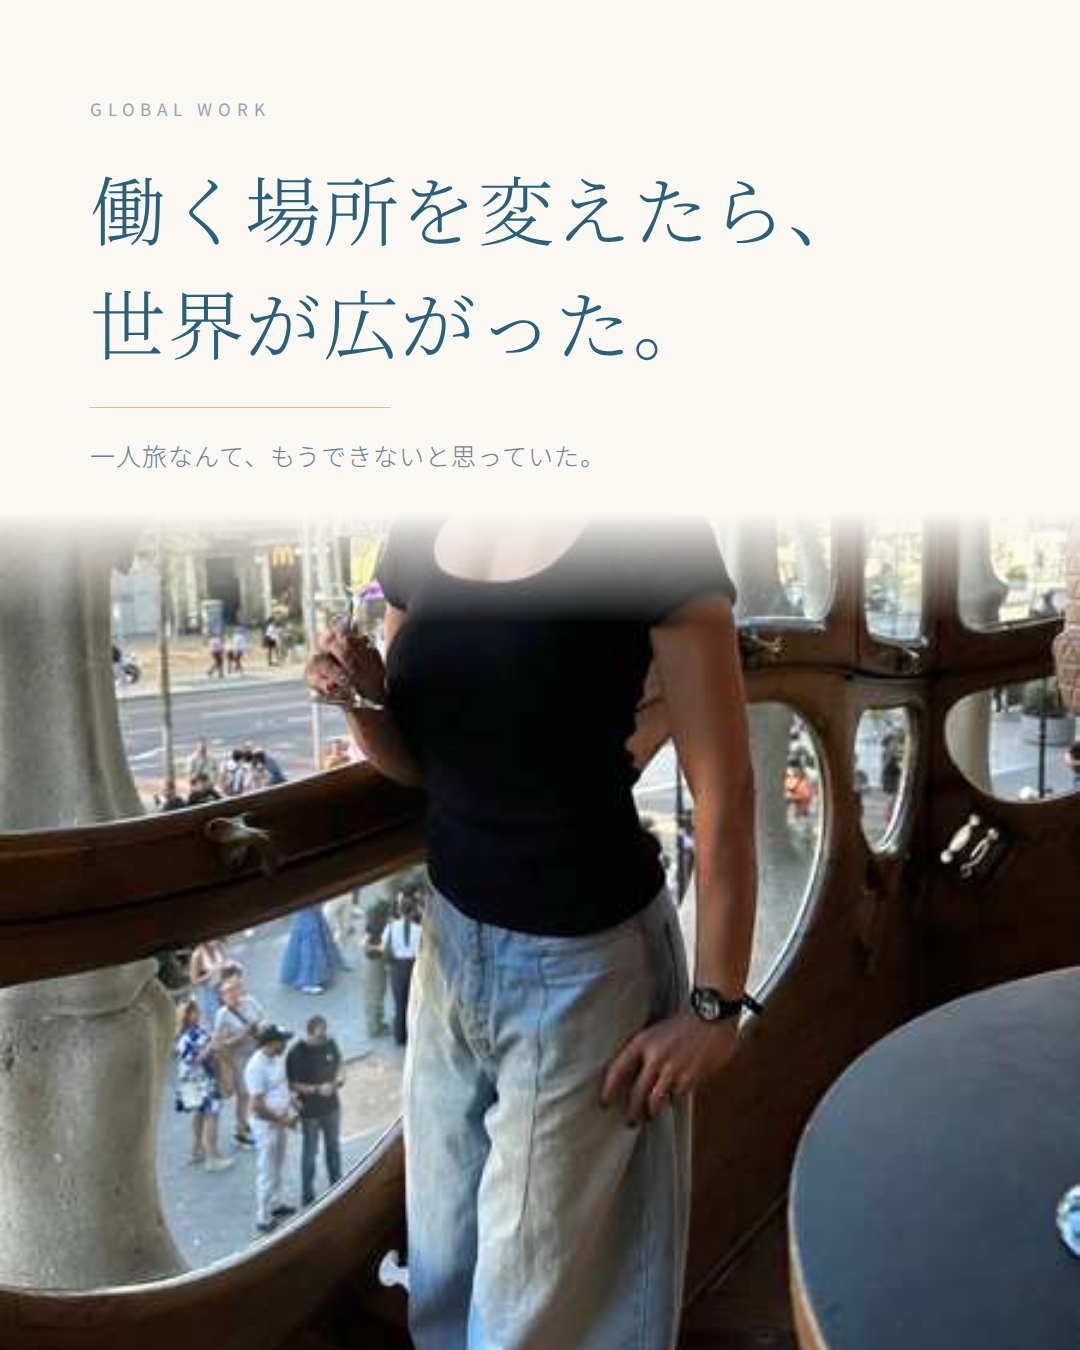
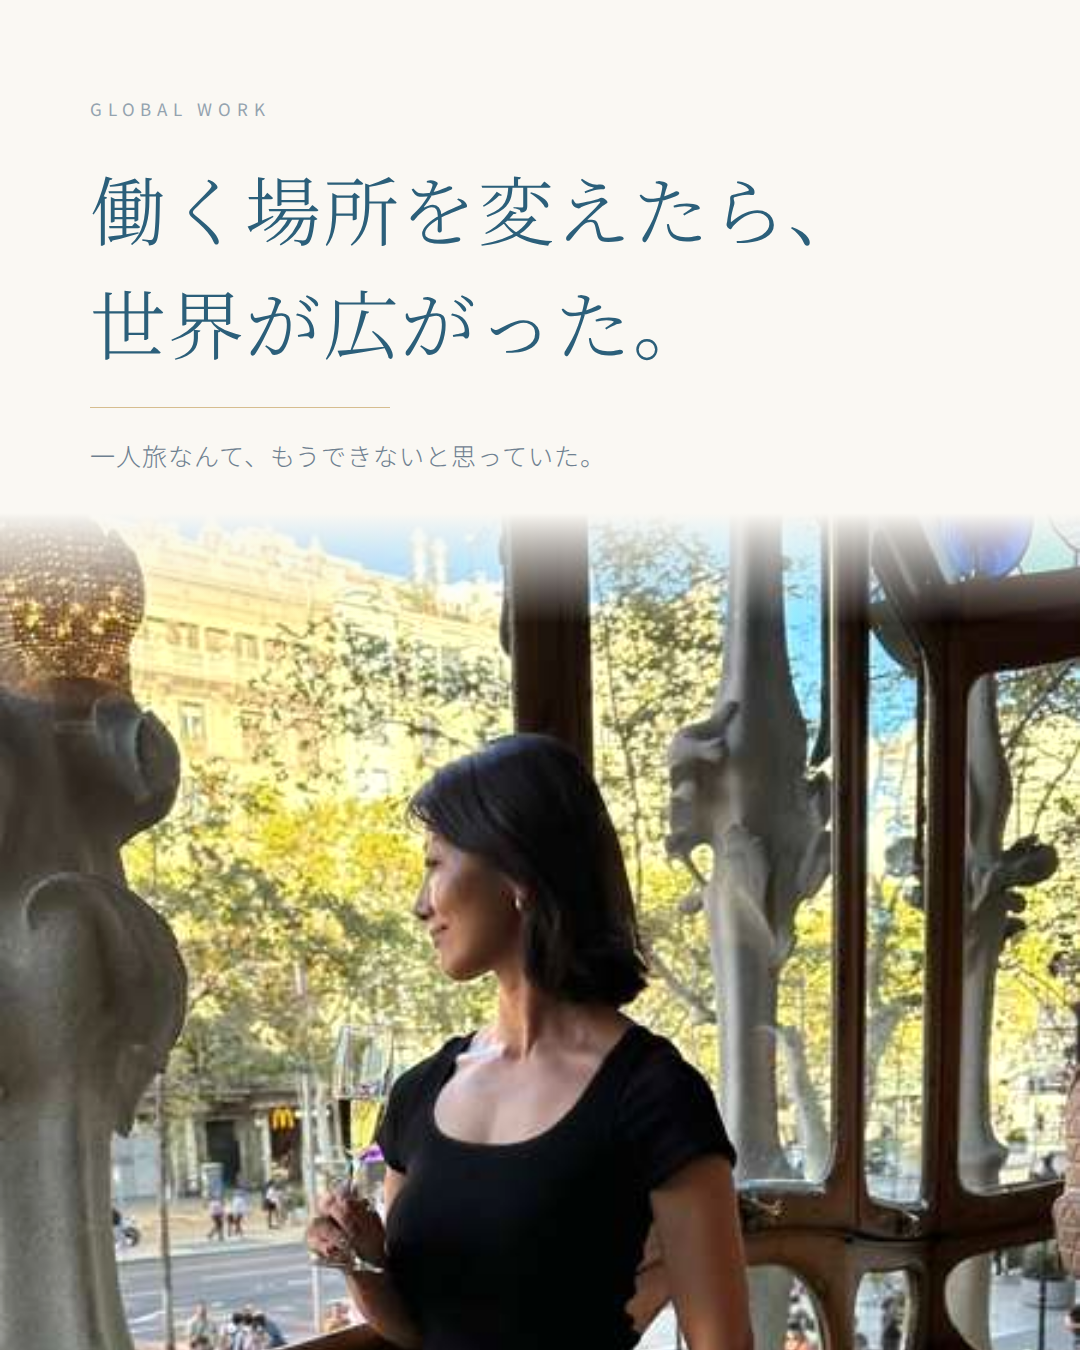
03を上帯に確定し、9枚の全体像を書き出した
- 03を place: 'top' に確定。02の縦割りと隣り合わないようにするため
- 縦割りの面幅を540px→466pxへ。投稿済みの02が画面の約43%だった。
  半分だと写真が細く見え、面が余る
- 02を縦割りに変更。写真は japan.jpg のダミー（インドの画像ファイルが無いため）。
  グリッドで型のリズムを確認するためだけの仮置き
- 01を箱に変更（投稿済みの形）
- 03のfocusを20%へ。上帯は上38%を覆うので、既定のままだと人物の頭が切れる。
  上帯のfocusは「被写体が下寄りか」ではなく「帯の下に顔が収まるか」で決める

diff --git a/src/instagram9/posts.js b/src/instagram9/posts.js
@@ -158,11 +158,21 @@ ${PROFILE_FOOTER}`,
   {
     no: '02',
     category: 'ABOUT ME',
-    variant: 'ivory',
-    photos: [],
-    headline: ['19年勤めた会社を、', '辞めた。'],
+    variant: 'bleed',
+    /*
+     * 写真はダミー。投稿済みの02はインド（アグラ城の大理石の間）だが、
+     * その画像ファイルはこのリポジトリに無い。
+     * グリッドで型のリズムを見るために、建築の内部という点だけ近い japan.jpg を置いている。
+     * インドの写真が入ったら photos を差し替えるだけでよい。
+     */
+    photos: ['japan.jpg'],
+    place: 'side',
+    focus: '62% 50%',
+    // 縦割りは文字の幅が386pxしかないので、3行に割って字を落とす。
+    // 「19年勤めた会社を、」を1行で渡すと「19年勤めた会／社を、」と切れる。
+    headline: ['19年勤めた', '会社を、', '辞めた'],
     sub: '会社が嫌になったから、ではなく。',
-    headlineSize: 84,
+    headlineSize: 56,
     role: '決断。脱サラ成功物語にしない。会社員時代を否定しない。',
     /*
      * 実際に投稿した表紙は縦割り（place: 'side'）＋インドの写真。
@@ -229,10 +239,17 @@ ${PROFILE_FOOTER}`,
     category: 'GLOBAL WORK',
     variant: 'bleed',
     photos: ['barcelona.jpg'],
-    // 上帯。02が縦割りで隣に来るので、同じ形を2枚並べないためにこの型にした。
-    // 本人の写真は下寄りに立っていて、上は尖塔と空。帯を上に置いても隠れない。
+    /*
+     * 上帯。02が縦割りで隣に来るので、同じ形を2枚並べないためにこの型にした。
+     * 投稿版の写真（サグラダ・ファミリア＋本人）は本人が下寄り、上は尖塔と空なので
+     * 帯を上に置いても隠れない。
+     *
+     * ここの barcelona.jpg は差し替え前のカット。帯が上38%を覆うので、
+     * focus を既定のままにすると本人の頭が切れる。20%まで上げて頭を残している。
+     * 上帯の型は「被写体が下寄り」ではなく「帯の下に顔が収まるか」で focus を決める。
+     */
     place: 'top',
-    focus: '50% 72%',
+    focus: '50% 20%',
     headline: ['働く場所を変えたら、', '世界が広がった。'],
     sub: '一人旅なんて、もうできないと思っていた。',
     headlineSize: 76,

diff --git a/src/instagram9/card.js b/src/instagram9/card.js
@@ -40,8 +40,12 @@ const PHOTO_FILTER = 'saturate(1.04) brightness(1.03)'
 
 /** 罫線＋カテゴリーの塊と、コピーとの間隔。 */
 const LABEL_GAP = 30
-/** 縦割りの型で、左のアイボリー面が占める幅。 */
-const SIDE_W = 540
+/**
+ * 縦割りの型で、左のアイボリー面が占める幅。
+ * 投稿済みの02が画面の約43%だったので、それに合わせている。
+ * 半分にすると写真が細く見え、面が余る。
+ */
+const SIDE_W = 466
 const MEDIA_TOP = 46
 const MEDIA_BOTTOM = 52
 
@@ -108,7 +112,7 @@ export const CARD_CSS = `
   position: absolute; z-index: 2; top: 0; bottom: 0; left: 0;
   width: ${SIDE_W}px; background: ${TOKENS.ivory};
   display: flex; flex-direction: column; justify-content: center;
-  padding: ${TOKENS.marginY}px 64px ${TOKENS.marginY}px ${TOKENS.marginX}px;
+  padding: ${TOKENS.marginY}px 44px ${TOKENS.marginY}px ${TOKENS.marginX}px;
 }
 /* 写真との境目を少しだけ溶かす（硬い直線にしない） */
 .ig-side::after {
